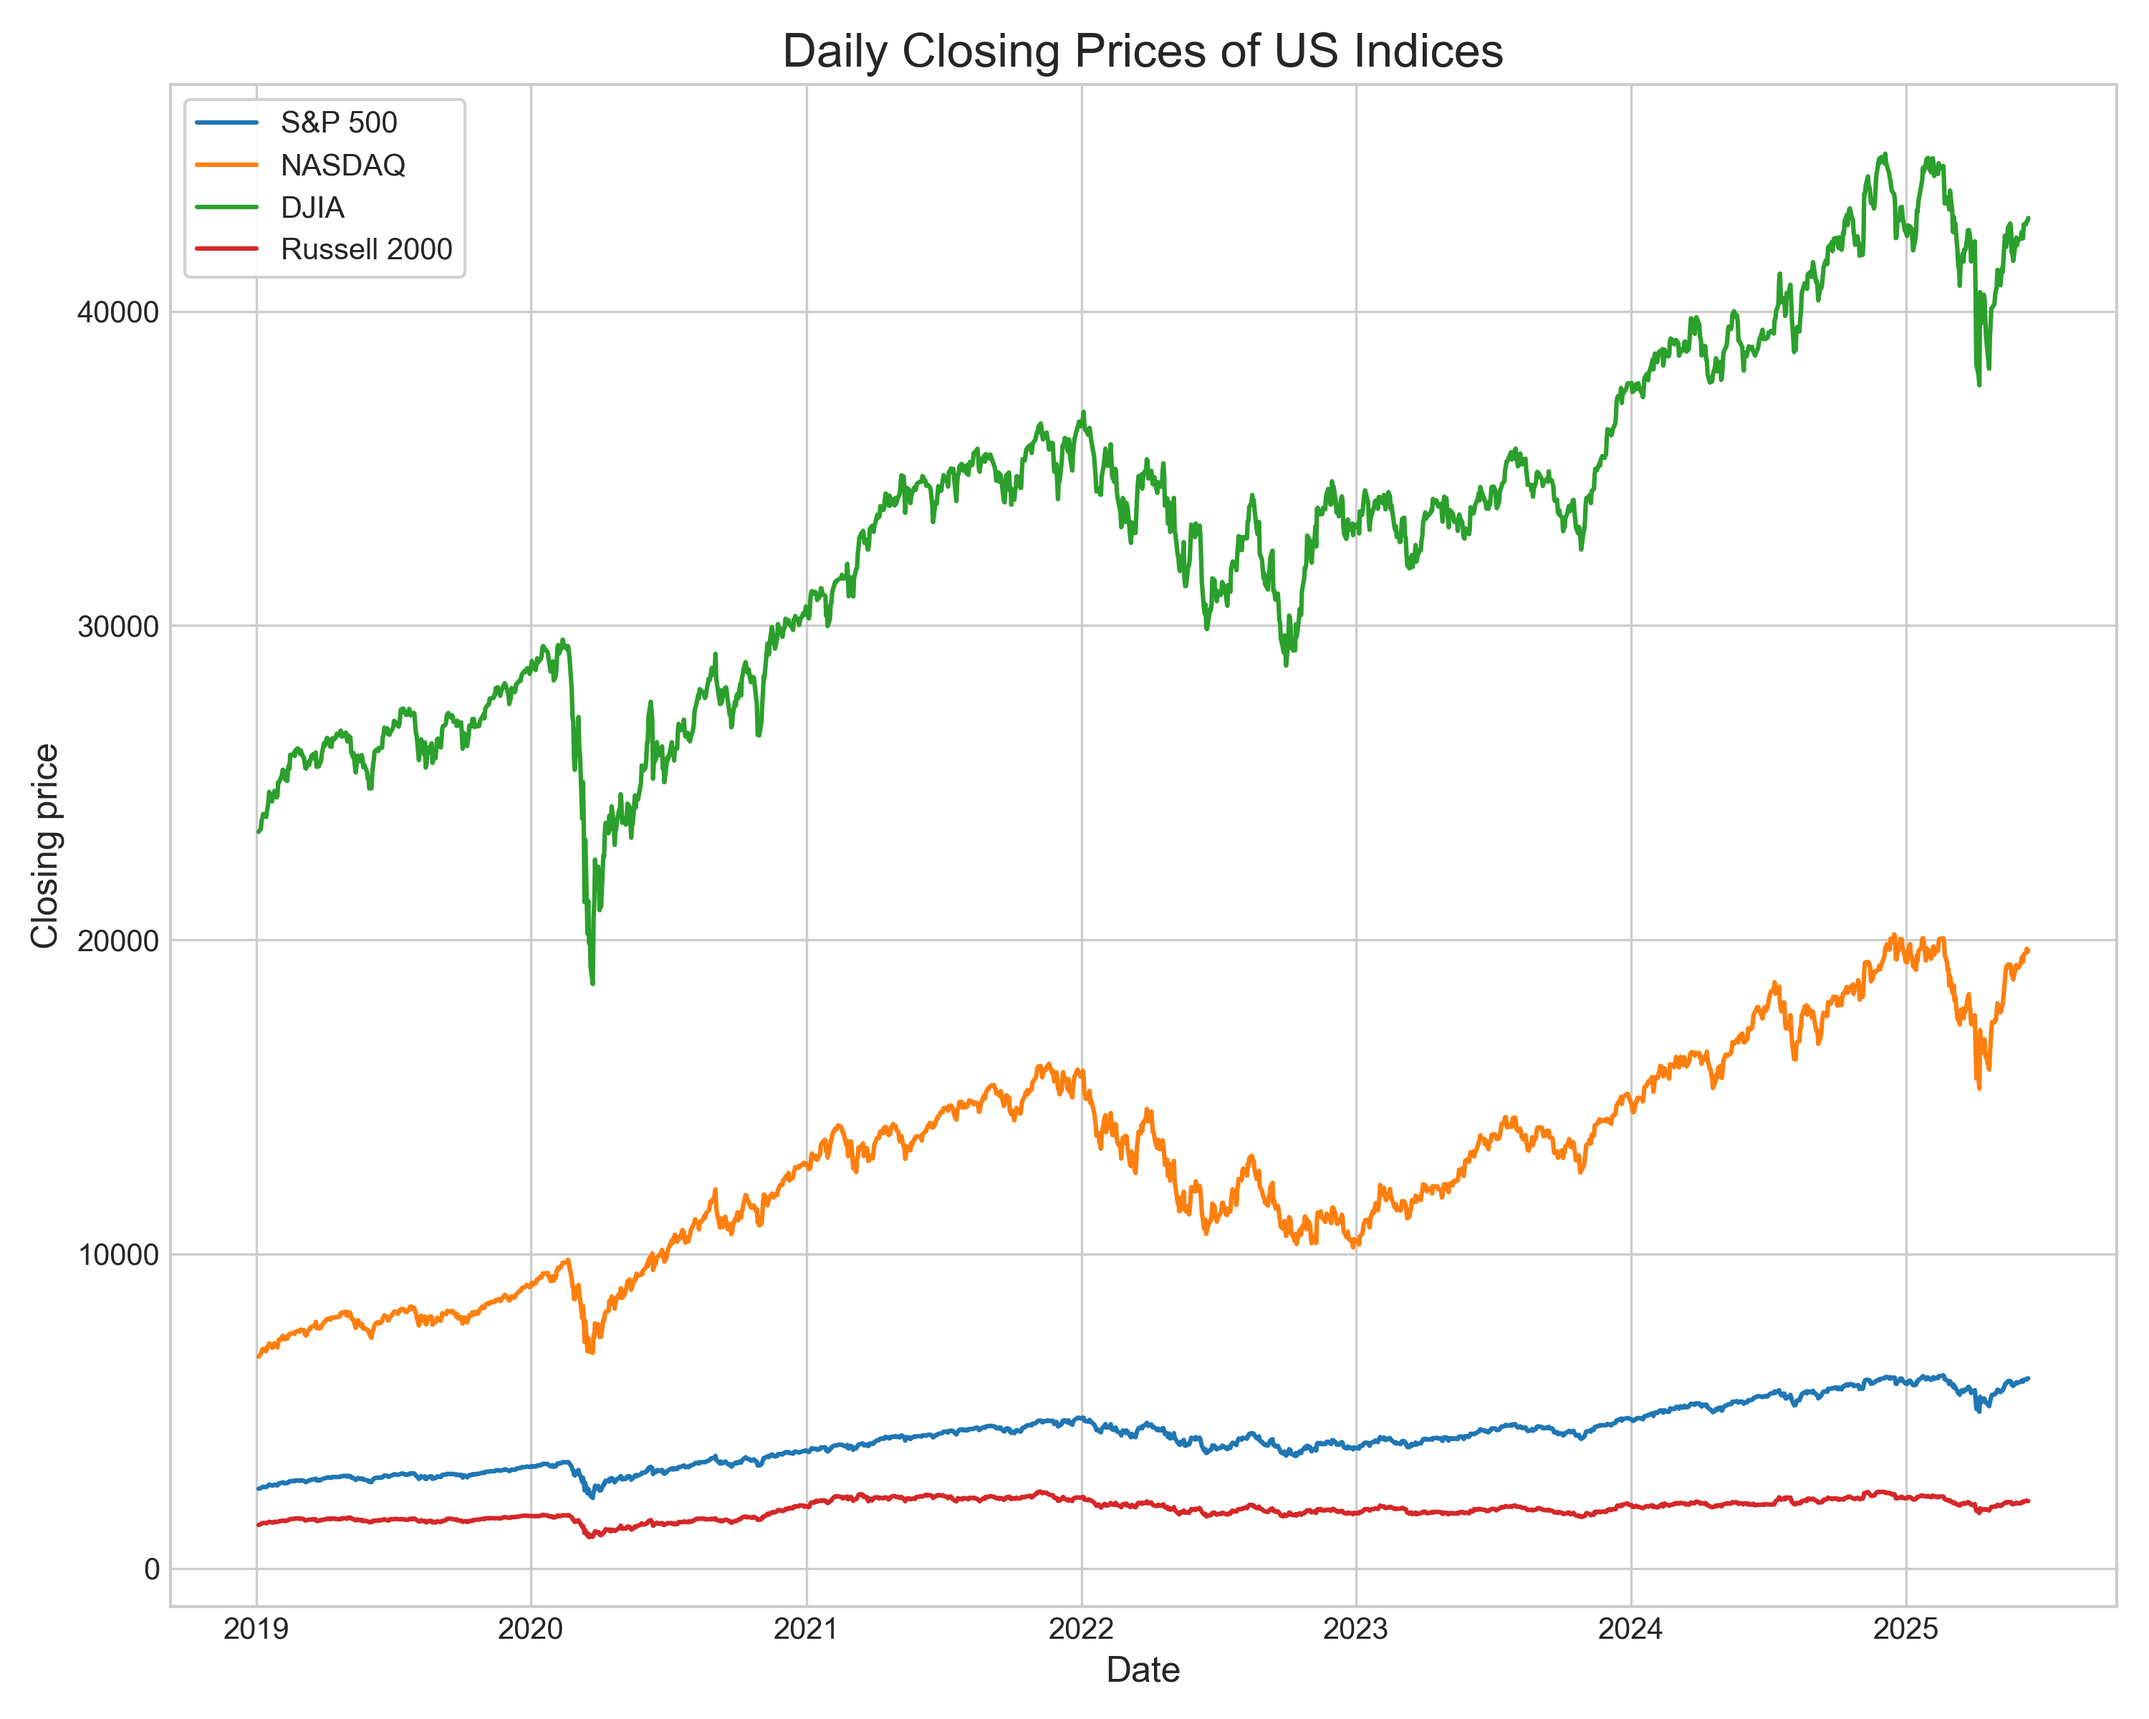
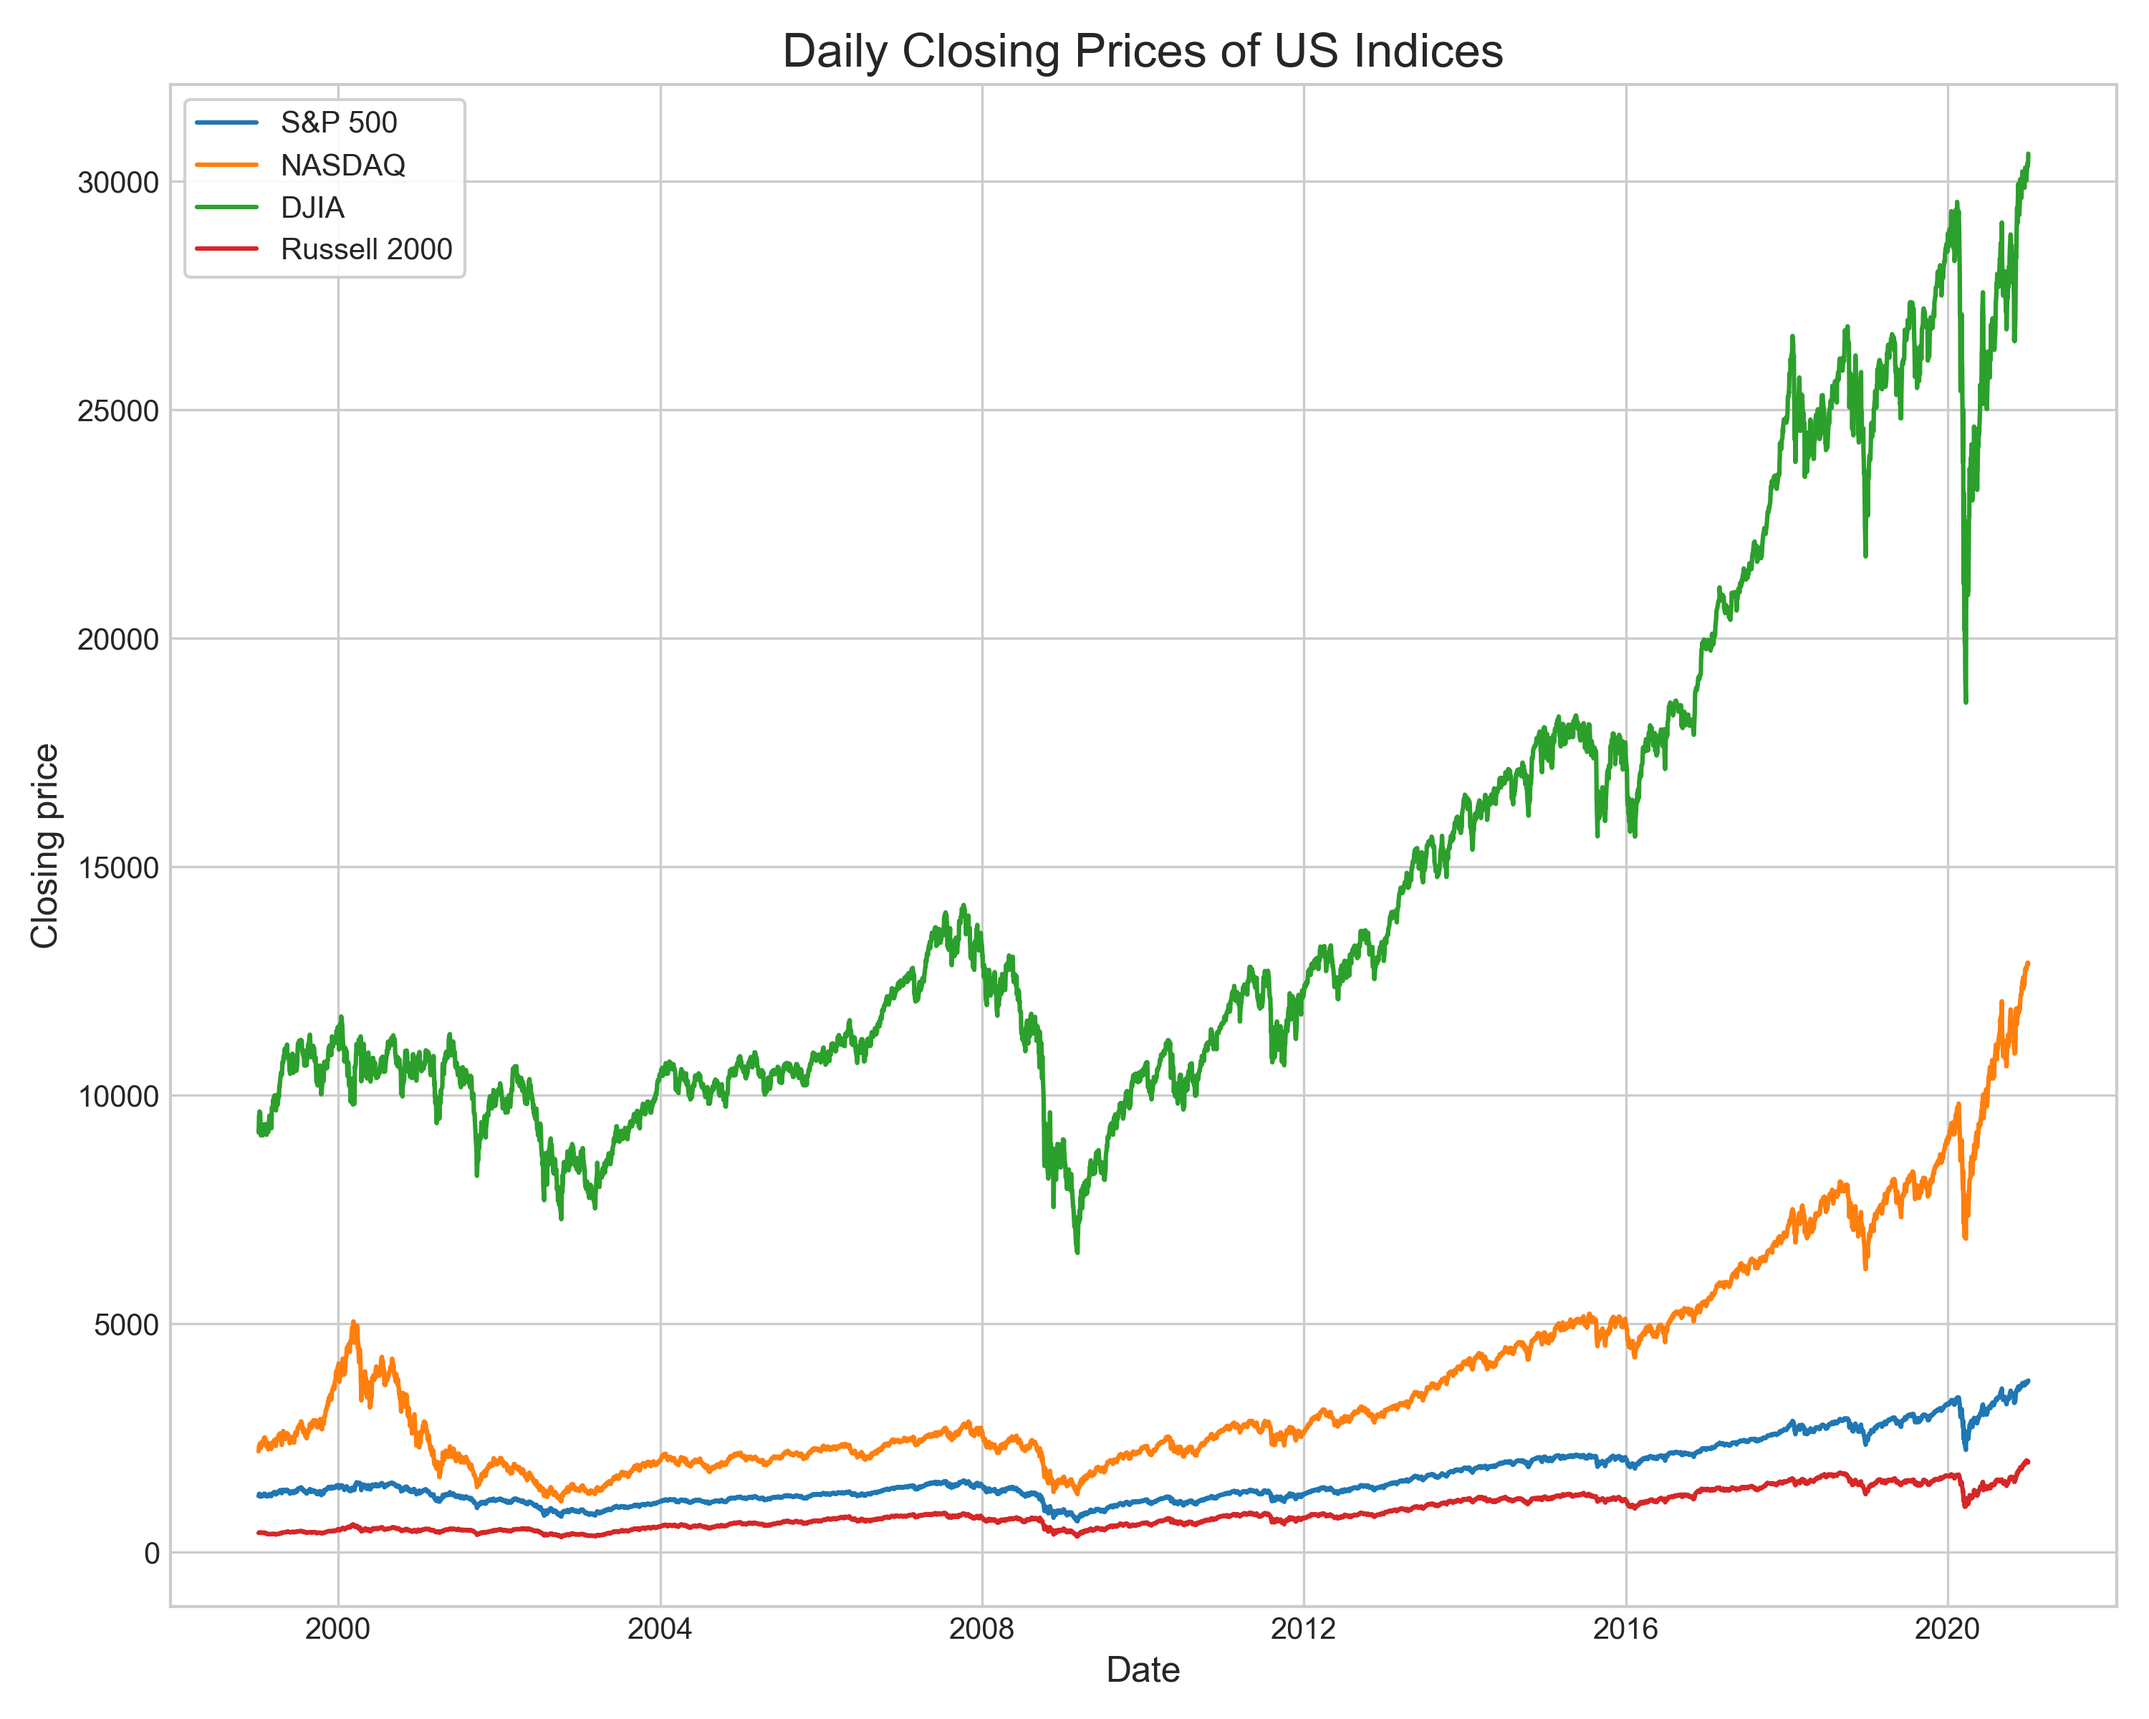
thesis_project

diff --git a/utils.py b/utils.py
@@ -124,8 +124,7 @@ def get_signal_date(
     Parameters:
     ----------
     signal_days : Set of time indices flagged as signal days.
-    dates : sequence of datetime-like objects (e.g., pd.Timestamp)
-        Full list of dates corresponding to the indices in the original time series.
+    dates : Full list of dates corresponding to the indices in the original time series.
 
     Returns:
     -------
